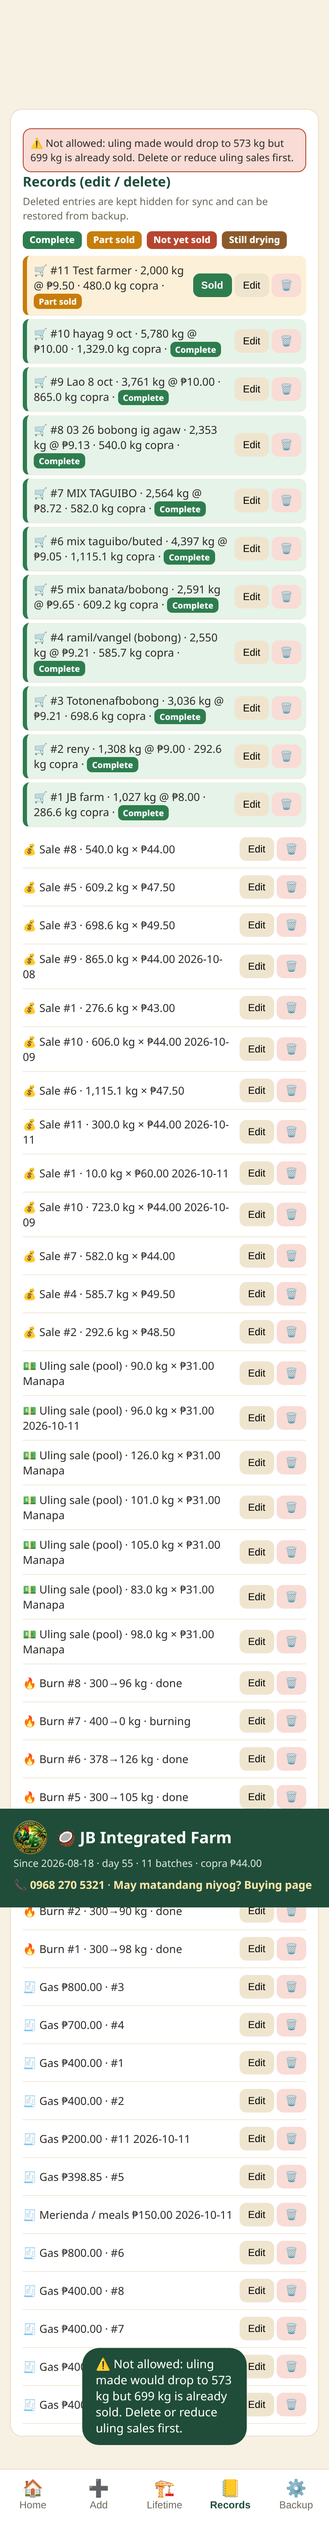
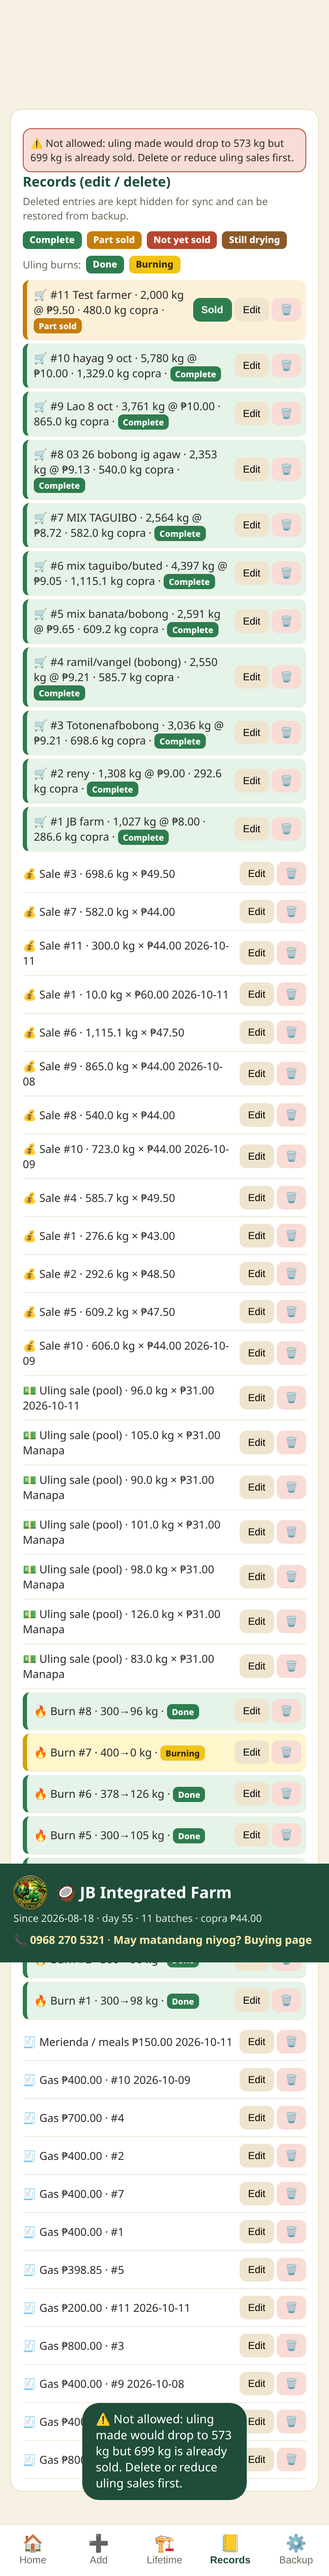
v1.6.5: color-coded uling burns (Done green, Burning yellow) in Records + Uling pool table, legend line

Changed region(s): [[0.0, 0.0311, 1.0, 0.9963], [0.6769, 0.9652, 0.7385, 0.9963], [0.6462, 0.4048, 0.6769, 0.4359]]

diff --git a/tests/brand.test.js b/tests/brand.test.js
@@ -17,7 +17,7 @@ test('buying page SEO, JSON-LD and no price claim',()=>{const b=rd('buying/index
   const ld=[...b.matchAll(/<script type="application\/ld\+json">([\s\S]*?)<\/script>/g)].map(m=>JSON.parse(m[1]));const org=ld.find(x=>x['@type']==='LocalBusiness');assert.deepEqual(Object.keys(org).sort(),['@context','@type','address','name','telephone','url']);assert.equal(org.address.addressLocality,'Butuan City');assert.equal(org.address.addressCountry,'PH');assert.equal(org.telephone,'+639682705321');
   const faq=ld.find(x=>x['@type']==='FAQPage');assert.ok(faq.mainEntity.length>=6&&faq.mainEntity.length<=8);
   assert.ok(b.includes("var PRICE_TODAY='';"));assert.ok(!/₱\s*\d|PHP\s*[1-9]/.test(b.replace(/\/\/ PRICE:.*\n/,'')));assert.ok(!b.includes('\u2014'));assert.ok(!/serviceWorker|rel="manifest"/.test(b));assert.ok(fs.existsSync(path.join(ROOT,'buying/og.png')))});
-test('version consistency 1.6.4',()=>{const v=rd('version.js').match(/APP_VERSION='([^']+)'/)[1],s=rd('sw.js').match(/SW_VERSION='([^']+)'/)[1];assert.equal(v,'1.6.4');assert.equal(s,v);assert.ok(rd('README.md').includes('v1.6.4'))});
+test('version consistency 1.6.5',()=>{const v=rd('version.js').match(/APP_VERSION='([^']+)'/)[1],s=rd('sw.js').match(/SW_VERSION='([^']+)'/)[1];assert.equal(v,'1.6.5');assert.equal(s,v);assert.ok(rd('README.md').includes('v1.6.5'))});
 test('SW sends /buying to the network, never the app shell',()=>{const s=rd('sw.js');assert.ok(s.includes('isBuying(u)'));assert.ok(!/respondWith\([^)]*index\.html/.test(s))});
 test('buying offer: whole matured coconuts, tagline, 1,000 kg pickup, no dried copra claim',()=>{const b=rd('buying/index.html');
   assert.ok(b.includes('Iwan mo na sa amin ang hassle, kami na ang gagawa ng kopra. Bayad ka sa araw ng bentahan.'));
@@ -37,3 +37,4 @@ test('v1.6.3 logo files exist, are small, transparent and referenced',()=>{const
   assert.ok(m.icons.some(i=>i.src==='icons/logo.png'));for(const f of ['./icons/logo.png','./icons/logo-160.png','./icons/apple-touch-icon.png','./favicon.ico'])assert.ok(sw.includes(f),f);
   for(const f of ['index.html','buying/index.html','README.md'])assert.ok(!/[\u2013\u2014]/.test(rd(f).split('## v1.6.1')[0]),f)});
 test('batch status color classes',()=>{const c=rd('style.css'),a=rd('app.js');for(const s of ['sold','part','unsold','drying']){assert.ok(c.includes('.item.st-'+s+'{'));assert.ok(c.includes('.tag.st-'+s+'{'))}assert.ok(a.includes('id="stlegend"'));assert.ok(a.includes('tag st-${esc(b.status)}'))});
+test('uling burn color classes',()=>{const c=rd('style.css'),a=rd('app.js');for(const s of ['done','burning']){assert.ok(c.includes('.item.st-'+s+'{'));assert.ok(c.includes('.tag.st-'+s+'{'));assert.ok(c.includes('tr.st-'+s+' td{'))}assert.ok(a.includes('id="stlegend2"'))});

diff --git a/tests/unit.test.js b/tests/unit.test.js
@@ -106,7 +106,7 @@ test('FIX4 sw never caches Supabase/API/cross-origin; cache name embedded in sw.
   const src=fs.readFileSync(path.join(ROOT,'sw.js'),'utf8');vm.runInNewContext(src+';this.isApi=isApi;this.V=V',ctx);const u=x=>new URL(x);
   assert.ok(ctx.isApi(u('https://abc.supabase.co/rest/v1/batches')));assert.ok(ctx.isApi(u('https://copra.johnnybodegas.com/auth/v1/token')));assert.ok(ctx.isApi(u('https://cdn.example.com/x.js')));
   assert.ok(!ctx.isApi(u('https://copra.johnnybodegas.com/app.js')));const ver=fs.readFileSync(path.join(ROOT,'version.js'),'utf8').match(/APP_VERSION='([\d.]+)'/)[1];
-  assert.equal(ver,'1.6.4');assert.equal(ctx.V,'kopra-'+ver)});
+  assert.equal(ver,'1.6.5');assert.equal(ctx.V,'kopra-'+ver)});
 test('v1.3.1 BLOCKER1 sw.js embeds the release version (bytes change every release), no importScripts, cache:reload',()=>{const src=fs.readFileSync(path.join(ROOT,'sw.js'),'utf8');
   const ver=fs.readFileSync(path.join(ROOT,'version.js'),'utf8').match(/APP_VERSION='([\d.]+)'/)[1];assert.ok(src.includes(`const SW_VERSION='${ver}'`));assert.ok(!/importScripts/.test(src));assert.ok(src.includes("cache:'reload'"))});
 test('SF CNAME + README signup note',()=>{assert.equal(fs.readFileSync(path.join(ROOT,'CNAME'),'utf8').trim(),'copra.johnnybodegas.com');assert.match(fs.readFileSync(path.join(ROOT,'README.md'),'utf8'),/disable.*sign.?ups/i)});
@@ -135,7 +135,7 @@ test('A2 backup import rejects bad types, missing fields, negatives, caps, bad r
 test('A2 import drops unknown fields',async()=>{const o=good();o.batches[0].evil='<script>';o.batches[0].__proto_x=1;const st=DB.Store();await st.replaceAll(o);
   assert.ok((await st.snapshot()).batches.every(b=>!('evil' in b)&&!('__proto_x' in b)))});
 test('A2 app escapes status, device tag, batch number; tag hidden when sync off',()=>{const s=fs.readFileSync(path.join(ROOT,'app.js'),'utf8');
-  assert.ok(s.includes("const bl=r=>esc('#'+(Number.isInteger(r.no)?r.no:'?')+(FLAGS&&r.dev?'-'+r.dev:''))"));assert.ok(s.includes("<td>${esc(b.status==='burning'?'in kiln':'done')}</td>"));assert.ok(s.includes('· ${esc(c.status)}'));
+  assert.ok(s.includes("const bl=r=>esc('#'+(Number.isInteger(r.no)?r.no:'?')+(FLAGS&&r.dev?'-'+r.dev:''))"));assert.ok(s.includes("${esc(b.status==='burning'?'in kiln':'done')}</span></td>"));assert.ok(s.includes("${c.status==='burning'?'Burning':'Done'}"));
   assert.ok(!/\$\{(b|c|r)\.(status|dev|no)\}/.test(s))});
 test('A cosmetic README: ?sync=1 is per page load',()=>{const r=fs.readFileSync(path.join(ROOT,'README.md'),'utf8');assert.match(r,/only for that page load/);assert.match(r,/200,000/)});
 

diff --git a/style.css b/style.css
@@ -41,3 +41,8 @@ a.btn{display:block;text-align:center;text-decoration:none;box-sizing:border-box
 .item.st-sold{background:#e6f3e8;border-left-color:#2e7d4f}.item.st-part{background:#fdf0d8;border-left-color:#c77d0a}.item.st-unsold{background:#fbe4df;border-left-color:#b5462f}.item.st-drying{background:#f3e7d3;border-left-color:#8a5a2b}
 .tag.st-sold{background:#2e7d4f;color:#fff}.tag.st-part{background:#c77d0a;color:#fff}.tag.st-unsold{background:#b5462f;color:#fff}.tag.st-drying{background:#8a5a2b;color:#fff}
 .stlegend{display:flex;flex-wrap:wrap;gap:6px;margin:0 0 8px}.stlegend .tag{font-size:11px;padding:3px 8px}
+/* v1.6.5 uling burn colors: Done green, Burning (in kiln) yellow */
+.item.st-done,.item.st-burning{border-left:5px solid;border-radius:8px;padding-left:8px;padding-right:6px;margin:4px 0}
+.item.st-done{background:#e6f3e8;border-left-color:#2e7d4f}.item.st-burning{background:#fff6cc;border-left-color:#d4a106}
+.tag.st-done{background:#2e7d4f;color:#fff}.tag.st-burning{background:#f2c418;color:#3a2a05;white-space:nowrap}
+tr.st-done td{background:#eef7ef}tr.st-burning td{background:#fff6cc}tr.st-done td:first-child{box-shadow:inset 4px 0 #2e7d4f}tr.st-burning td:first-child{box-shadow:inset 4px 0 #d4a106}

diff --git a/sw.js b/sw.js
@@ -1,6 +1,6 @@
 // JB Integrated Farm app service worker (cache prefix stays kopra- so old caches are cleaned and data is untouched). SW_VERSION MUST equal APP_VERSION in version.js (unit test enforces it).
 // It is embedded here on purpose: browsers only install a new worker when sw.js bytes change.
-const SW_VERSION='1.6.4';
+const SW_VERSION='1.6.5';
 const V='kopra-'+SW_VERSION;
 const F=['./','./index.html','./app.js','./calc.js','./db.js','./sync.js','./seed.js','./version.js','./style.css','./lib/chart.umd.min.js','./manifest.webmanifest','./icons/icon-192.png','./icons/icon-512.png','./icons/logo.png','./icons/logo-160.png','./icons/logo-160.webp','./icons/logo-320.webp','./icons/apple-touch-icon.png','./icons/favicon-32.png','./favicon.ico'];
 // cache:'reload' so a new release never pre-caches stale files from the HTTP cache.

diff --git a/version.js b/version.js
@@ -1,3 +1,3 @@
 // Bump on EVERY release (semver) — and bump SW_VERSION in sw.js to the SAME value (a unit test enforces this).
 // The version string must live inside sw.js itself so its bytes change; otherwise installed phones never see an update.
-self.APP_VERSION='1.6.4';
+self.APP_VERSION='1.6.5';

diff --git a/tests/e2e.py b/tests/e2e.py
@@ -180,7 +180,7 @@ with sync_playwright() as p:
   ctx.set_offline(True);pg.reload();pg.wait_for_function("window.__K");ok("works offline (SW cache)",pg.evaluate("Object.keys(Chart.instances).length")>=4);ctx.set_offline(False)
   ok("no JS errors",not errs,"; ".join(errs[:3]))
   f=b.new_page(viewport={"width":390,"height":844});f.goto(U+"?sync=1");f.wait_for_function("window.__K");f.click("nav button[data-v=more]");ok("SF sync card shown only with flag",f.locator("#synccard").count()==1)
-  ok("version shown v1.4.0","v1.6.4" in f.inner_text("#v-more"))
+  ok("version shown v1.4.0","v1.6.5" in f.inner_text("#v-more"))
   # v1.2 -> v1.3 IndexedDB migration on a phone with existing data
   m=b.new_context(viewport={"width":390,"height":844});mp=m.new_page();mp.goto(U.replace("index.html","manifest.webmanifest"))
   mp.evaluate("""async()=>{const src=await (await fetch('seed.js')).text();const SEED=new Function(src+';return SEED')();
@@ -206,11 +206,11 @@ with sync_playwright() as p:
     up.evaluate("(async()=>{const r=await store.save('batches',{no:11,source:'Phone batch before upgrade',rawKg:1000,buyTotal:9000,copraKg:0})})()");up.wait_for_timeout(300)
     os.remove(base+"/cur");os.symlink(base+"/new",base+"/cur")   # server now serves v1.3.1
     up.evaluate("navigator.serviceWorker.getRegistration().then(r=>r.update())")
-    up.wait_for_function("caches.keys().then(k=>window.__ck=k)&&window.__ck&&window.__ck.length===1&&window.__ck[0]==='kopra-1.6.4'",timeout=20000,polling=300)
+    up.wait_for_function("caches.keys().then(k=>window.__ck=k)&&window.__ck&&window.__ck.length===1&&window.__ck[0]==='kopra-1.6.5'",timeout=20000,polling=300)
     up.reload();up.wait_for_function("window.__K");KU=up.evaluate("window.__K")
-    ok("UPGRADE: SW updated, cache bumped to kopra-1.6.4 (old cache gone), page runs v1.6.4",up.evaluate("self.APP_VERSION")=="1.6.4" and up.evaluate("caches.keys()")==["kopra-1.6.4"] and up.evaluate("fetch('sw.js').then(r=>r.text()).then(t=>t.includes(\"SW_VERSION='1.6.4'\"))"))
+    ok("UPGRADE: SW updated, cache bumped to kopra-1.6.5 (old cache gone), page runs v1.6.5",up.evaluate("self.APP_VERSION")=="1.6.5" and up.evaluate("caches.keys()")==["kopra-1.6.5"] and up.evaluate("fetch('sw.js').then(r=>r.text()).then(t=>t.includes(\"SW_VERSION='1.6.5'\"))"))
     ok("UPGRADE: migration ran (6 sold burns -> pool sales), no data lost",up.evaluate("D.uling_sales.length")==6 and abs(KU['char']['ulingSales']-18693)<.01 and any(r['source']=='Phone batch before upgrade' for r in KU['rows']) and abs(KU['raw']-30366)<.01)
-    uc.set_offline(True);up.reload();up.wait_for_function("window.__K");ok("UPGRADE: v1.6.4 works offline from new cache",up.evaluate("self.APP_VERSION")=="1.6.4");uc.close()
+    uc.set_offline(True);up.reload();up.wait_for_function("window.__K");ok("UPGRADE: v1.6.5 works offline from new cache",up.evaluate("self.APP_VERSION")=="1.6.5");uc.close()
   finally:srv.terminate();srv.wait()
   # ================= v1.4.0 Lifetime tab (example items are TEST-ONLY) =================
   lc=b.new_context(viewport={"width":390,"height":844},device_scale_factor=2,is_mobile=True,has_touch=True);lp=lc.new_page();lerr=[];lp.on("pageerror",lambda e:lerr.append(str(e)))

diff --git a/README.md b/README.md
@@ -1,5 +1,8 @@
-# JB Integrated Farm (formerly Kopra Ko): offline copra + uling tracker (PWA) v1.6.4
+# JB Integrated Farm (formerly Kopra Ko): offline copra + uling tracker (PWA) v1.6.5
 Live site: copra.johnnybodegas.com (app) and copra.johnnybodegas.com/buying (sales page: we buy whole matured coconuts from farmers).
+
+## v1.6.5: uling burn colors
+- Uling burns are color coded in Records and the dashboard Uling pool table: Done = green, Burning = yellow (form still says "In kiln (burning)"). Legacy status `sold` shows as Done (same as the app already treats it). Second color key line in Records. No calculation or data changes. SW cache `kopra-1.6.5`.
 
 ## v1.6.4: batch status colors
 - Batch rows in Records, Buying log, Drying log and the on-hand list are color coded: Complete = green, Part sold = amber, Not yet sold = red, Still drying = tan/brown (tinted row, colored left border, colored pill). Color key at the top of Records. No calculation or data changes. SW cache `kopra-1.6.4`.
